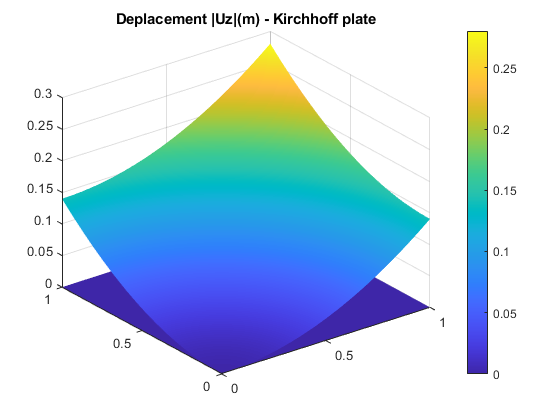
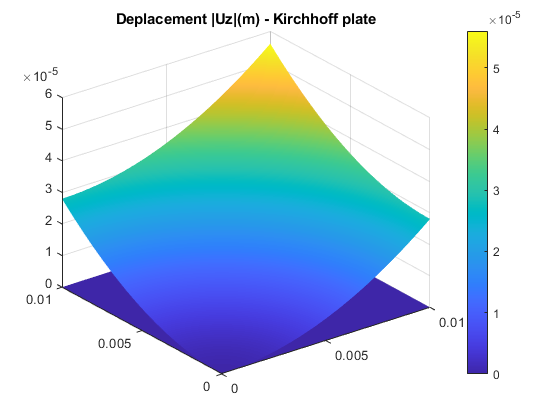
update

diff --git a/Mindlin_plate/Mindlin_test.m b/Mindlin_plate/Mindlin_test.m
@@ -4,9 +4,9 @@ close all
 clc
 
 %Dimensions
-Lx=1;
-Ly=1;
-h=0.001;
+Lx=0.01;
+Ly=0.01;
+h=500e-6;
 
 %Material parameters
 E=1.3e11;
@@ -117,13 +117,7 @@ q_plot(1:(2*N1+1),1:(2*N2+1))=reshape(-w_plot,2*N1+1,2*N2+1);
 
 surf(XX,YY,ZZ)
 hold on
-% surf(-XX,YY,ZZ)
-% surf(-XX,-YY,ZZ)
-% surf(XX,-YY,ZZ)
 surf(XX,YY,q_plot)
-% surf(-X,Y,q_plot)
-% surf(X,-Y,q_plot)
-% surf(-X,-Y,q_plot)
 axis([0 Lx 0 Ly])
 title("Displacement |Uz|(m) - Mindlin plate")
 colorbar

diff --git a/Kirchhoff_plate/Kirchhoff_test.m b/Kirchhoff_plate/Kirchhoff_test.m
@@ -4,9 +4,9 @@ close all
 clc
 
 %Dimensions
-Lx=1;
-Ly=1;
-h=0.001;
+Lx=0.01;
+Ly=0.01;
+h=500e-6;
 
 %Material parameters
 E=1.3e11;
